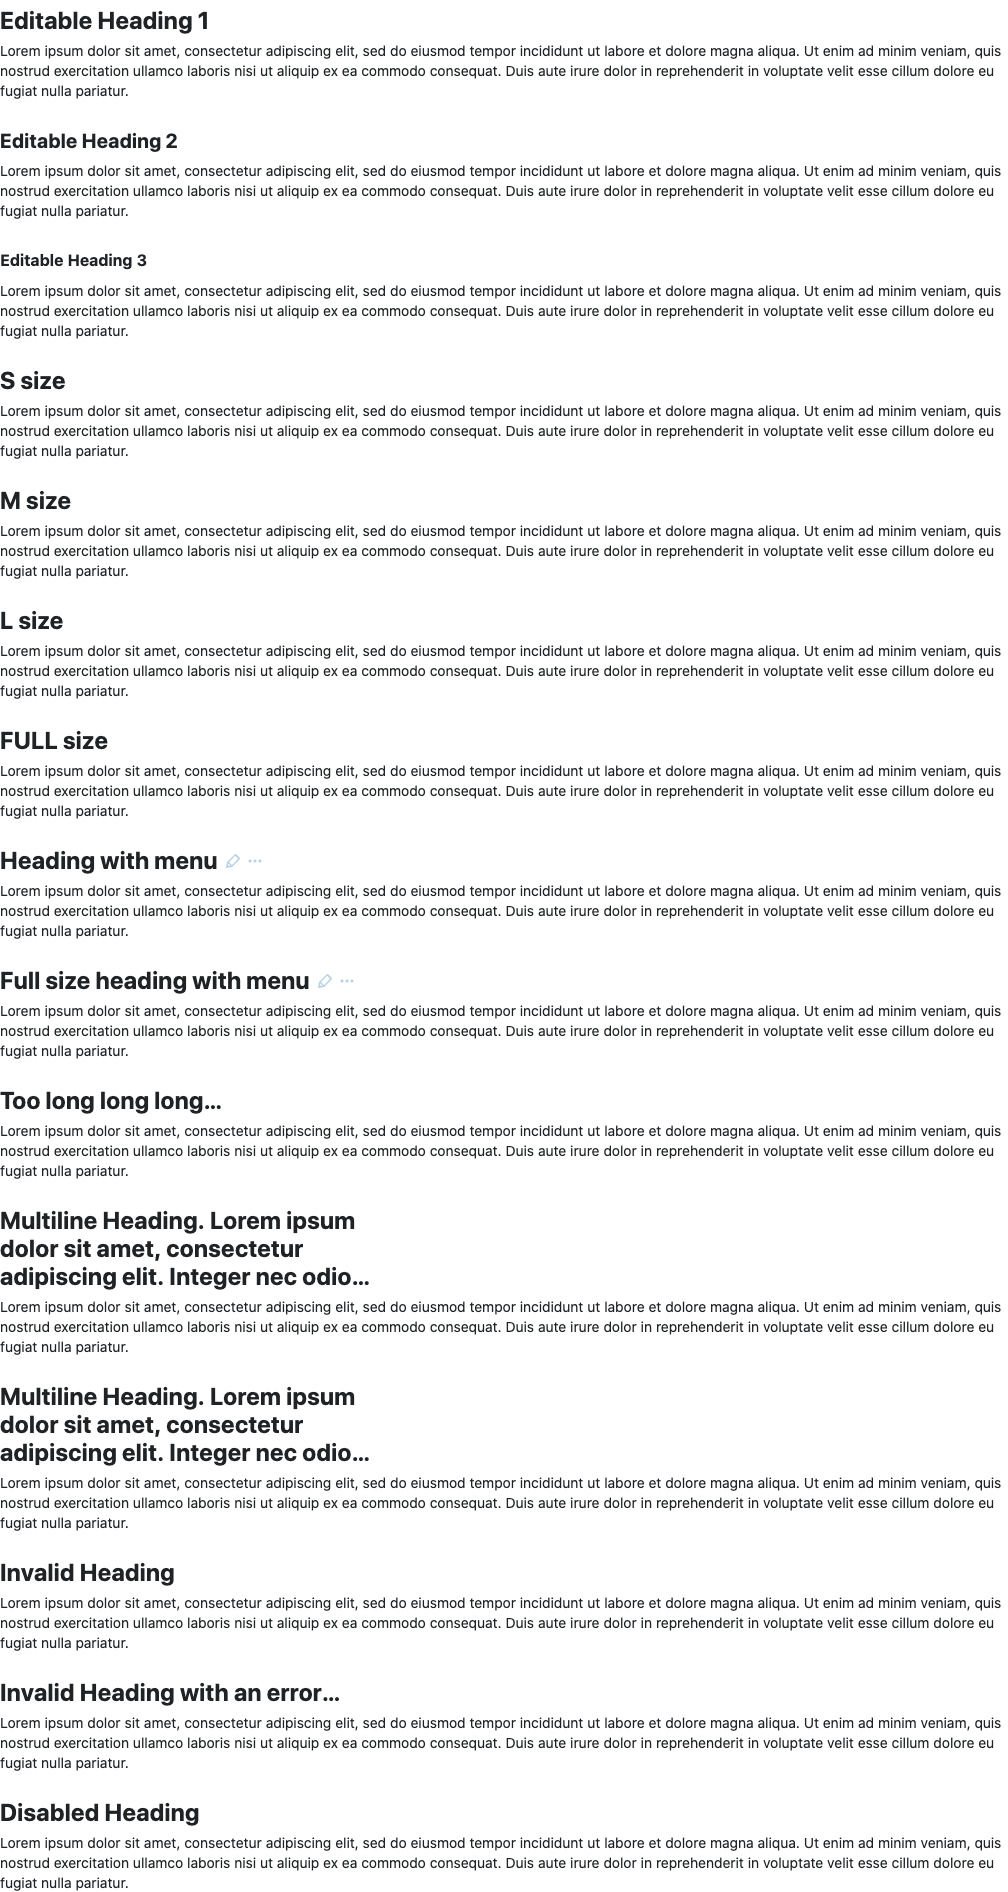
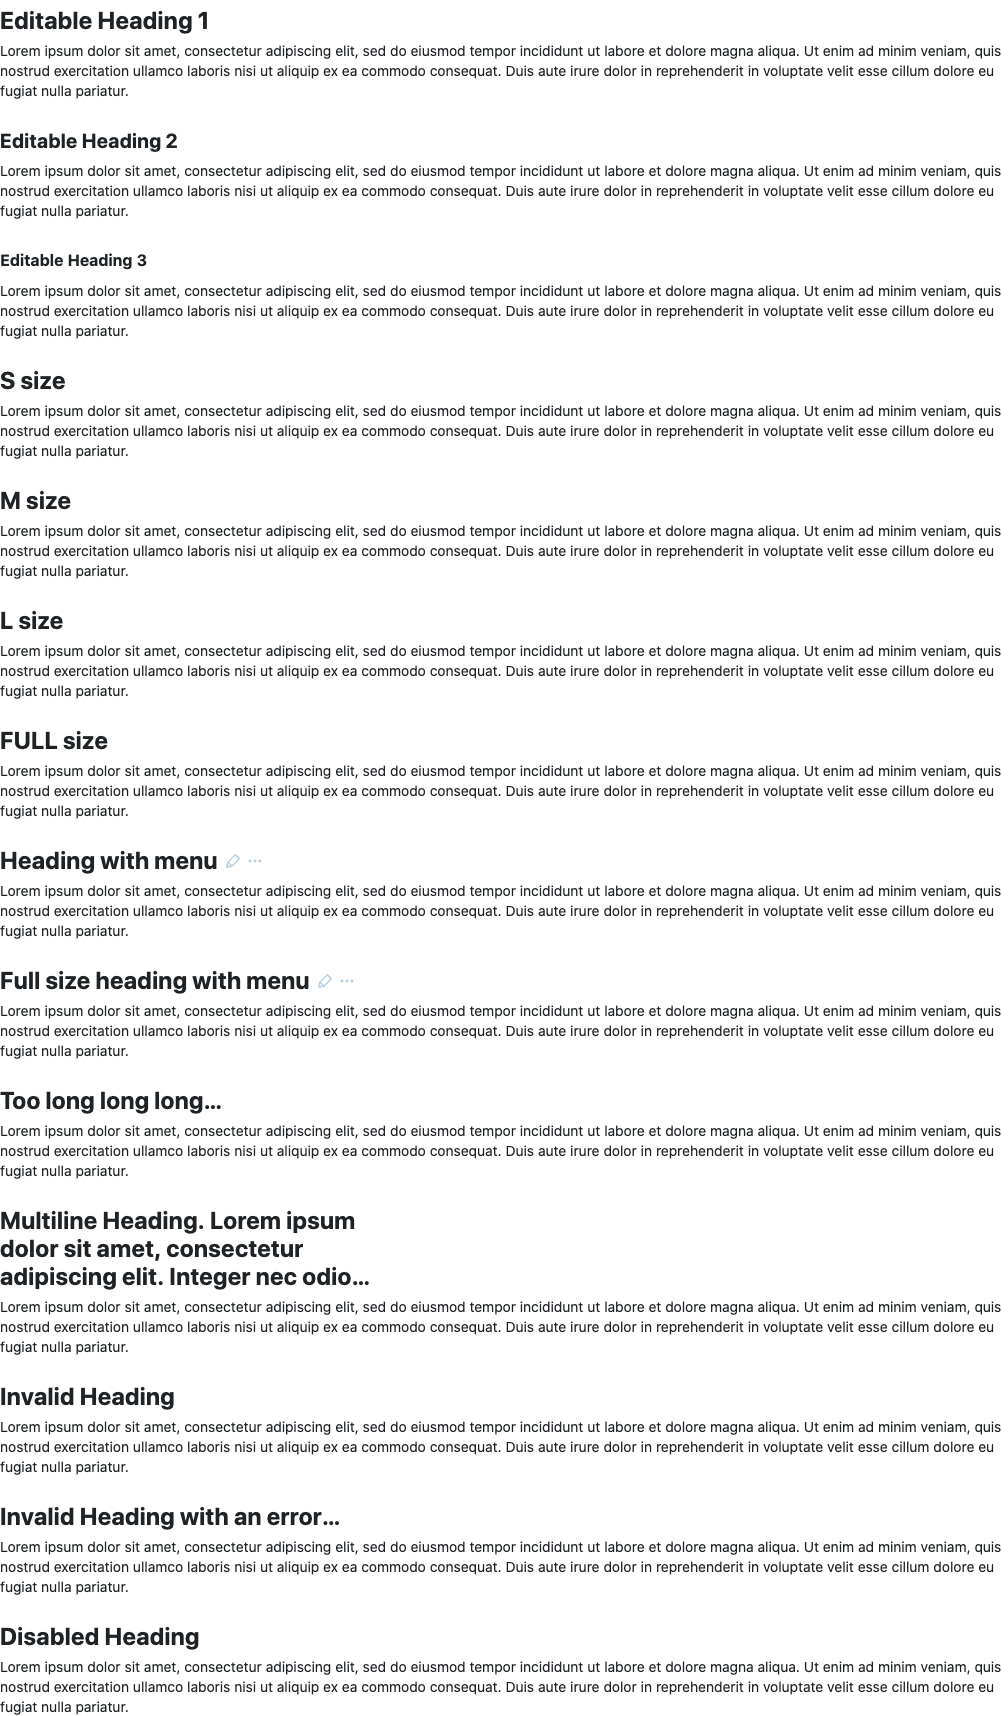
tests fixed

Changed region(s): [[0.0, 0.0, 1.0, 1.0]]

diff --git a/src/editable-heading/editable-heading.stories.tsx b/src/editable-heading/editable-heading.stories.tsx
@@ -106,17 +106,7 @@ export const basic = () => {
       </ExampleEditableHeading>
       {lorem}
 
-      <ExampleEditableHeading multiline>
-        Multiline Heading.
-        Lorem ipsum dolor sit amet, consectetur adipiscing elit. Integer nec odio tellus.
-        Suspendisse ut elit orci. Pellentesque sagittis pharetra lacus, id vehicula mauris.
-        Donec lacinia tincidunt risus, et sollicitudin risus dignissim sit amet.
-        Duis eu lectus ac odio pharetra egestas in eget ipsum. Curabitur luctus lacinia molestie.
-        Nullam id metus tortor.
-      </ExampleEditableHeading>
-      {lorem}
-
-      <ExampleEditableHeading multiline multilineInput multilineInputRows={5}>
+      <ExampleEditableHeading multiline multilineInputRows={5}>
         Multiline Heading.
         Lorem ipsum dolor sit amet, consectetur adipiscing elit. Integer nec odio tellus.
         Suspendisse ut elit orci. Pellentesque sagittis pharetra lacus, id vehicula mauris.
